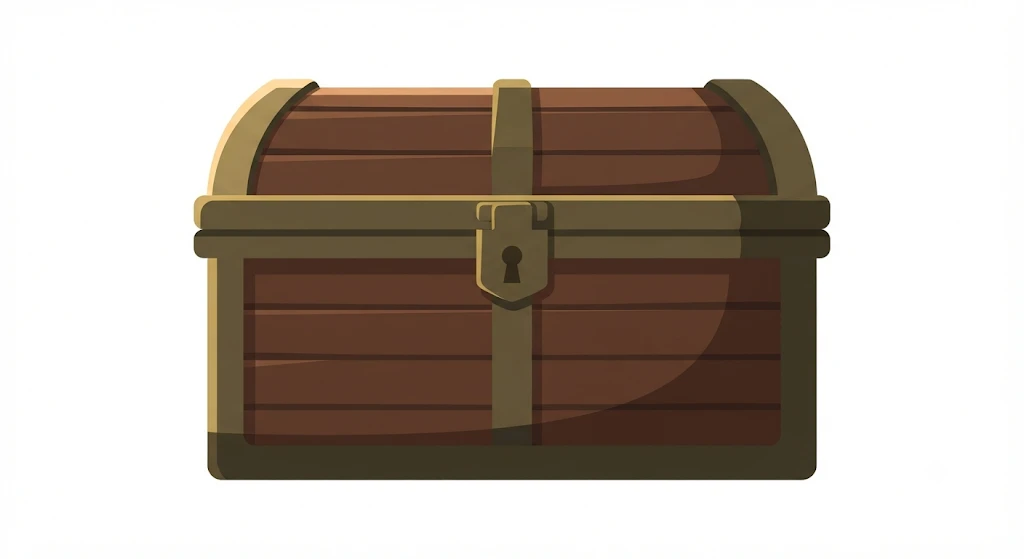
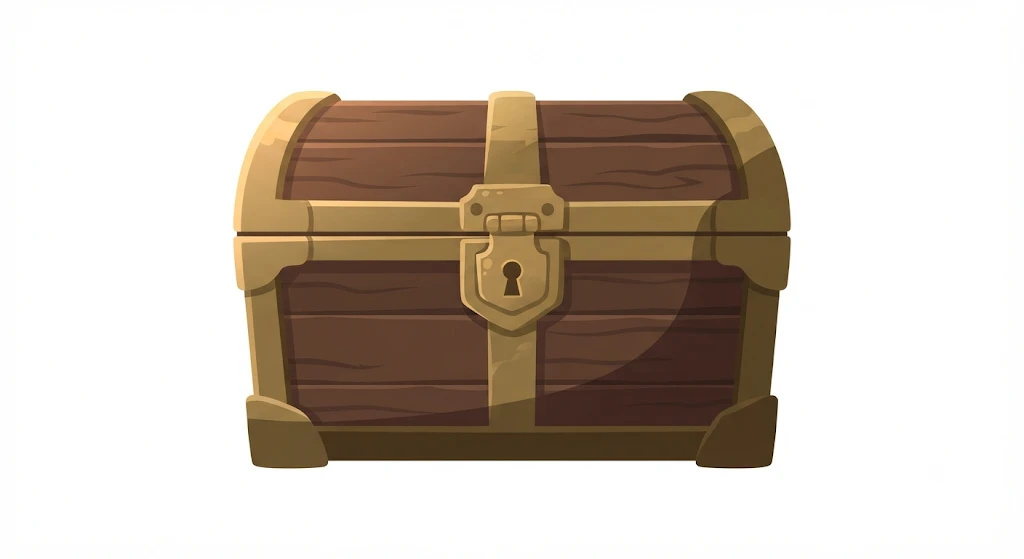
Gương cho Tia Sét, và hòm bản đẹp hơn
Gương bẻ tia 90 độ, HAI hướng đặt (chéo lên / chéo xuống) — một hướng thì
nó là cái xoay chứ không phải gương. Khác ngạnh chẻ ở chỗ gương KHÔNG
cháy: nó là hình học, không phải tài nguyên. Tia bẻ được nhiều lần liên
tiếp, nên hai gương đặt đối nhau thành đường ống dẫn tia.

Gương ép sửa luôn một chỗ sai âm thầm: ngạnh chẻ trước đây chẻ theo HƯỚNG
PHÍM BẤM, giờ chẻ theo hướng tia ĐANG CHẠY. Không có gương thì hai thứ đó
luôn trùng nhau nên lỗi không lộ ra.

19/20 màn Tia Sét có gương, bẫy lên tới 16.
Hòm thay bằng bản anh gửi sau, đai đồng và vân gỗ rõ hơn.
80/80 màn giải được.

Changed region(s): [[0.1875, 0.1216, 0.8125, 0.8819]]

diff --git a/man.js b/man.js
@@ -48,47 +48,47 @@ export const MAN = {
     { o: ["########","#o..#..#","##@..o.#","#X.##o.#","##..#o.#","########"] },
   ],
   xoay: [
-    { o: ["......","......","......","......","......","@....X"] },   // màn dạy luật, vẽ tay
-    { o: [".......",".v.o...","..@#..h",".#.vo..","X..v.h.","..#....","......."] },   // 5 nước · 1 bẫy
-    { o: [".v.#..",".X.h.#","@....v","#...o.",".v....","..h.o."] },   // 5 nước · 1 bẫy
-    { o: ["...X.#",".....#","o.h..#","...o.v","vv....","...h.@"] },   // 9 nước · 1 bẫy
-    { o: ["......v",".o.h...",".#...o.",".h.....","X.v#..#","...v..@","......."] },   // 9 nước · 1 bẫy
-    { o: [".h..voh",".....#@","..#....","X......",".......","......#","o....vv"] },   // 9 nước · 1 bẫy
-    { o: [".vv.Xo","@..#h.","......",".v..#.","......","h.o.#."] },   // 10 nước · 1 bẫy
-    { o: [".vX....","..@....",".v..o#.",".......","....vo.",".....#h","..#...h"] },   // 12 nước · 1 bẫy
-    { o: [".....X.","......#",".......",".@..h..","vv.o...","..#.v..","h#...o."] },   // 12 nước · 1 bẫy
-    { o: ["....o.X",".....v.",".@v.#..","....#..","......o",".......","v..#h.h"] },   // 14 nước · 1 bẫy
-    { o: ["...v...","....#.#",".o....v","...o...","....h..","......v","#X.@..h"] },   // 17 nước · 1 bẫy
-    { o: ["v.....","X..##.","o..#hh","o@...v","......","....v."] },   // 17 nước · 1 bẫy
-    { o: ["...#...","....ov.","..o....","#......","...#..X","v.@.v..","....h.h"] },   // 20 nước · 1 bẫy
-    { o: ["@.v....","....h..","..h....",".....o.","......#",".#....X",".v.#vo."] },   // 20 nước · 1 bẫy
-    { o: [".#h@..",".....X","vh#...","..v...","......",".voo#."] },   // 11 nước · 2 bẫy
-    { o: ["h.....","......","X....v","#v.h.o",".v#...",".#.@.o"] },   // 12 nước · 2 bẫy
-    { o: ["...X...","...#.ov","o.h...@",".......",".#.v...","......#","....hv."] },   // 18 nước · 2 bẫy
-    { o: ["..#...","X.vvh.","h.....","o.....","...#..",".ov#@."] },   // 19 nước · 2 bẫy
-    { o: [".X....","...vh#","h.....",".v#..o",".o.@.v","...#.."] },   // 15 nước · 3 bẫy
-    { o: [".@..h.","..v...","...v.o",".#...X","v#.#.h",".o...."] },   // 16 nước · 3 bẫy
+    { o: ["......","......","......","......","......","@....X"] },
+    { o: [".......",".v.o...","..@#..h",".#.vo..","X..v.h.","..#....","......."] },
+    { o: [".v.#..",".X.h.#","@....v","#...o.",".v....","..h.o."] },
+    { o: ["...X.#",".....#","o.h..#","...o.v","vv....","...h.@"] },
+    { o: ["......v",".o.h...",".#...o.",".h.....","X.v#..#","...v..@","......."] },
+    { o: [".h..voh",".....#@","..#....","X......",".......","......#","o....vv"] },
+    { o: [".vv.Xo","@..#h.","......",".v..#.","......","h.o.#."] },
+    { o: [".vX....","..@....",".v..o#.",".......","....vo.",".....#h","..#...h"] },
+    { o: [".....X.","......#",".......",".@..h..","vv.o...","..#.v..","h#...o."] },
+    { o: ["....o.X",".....v.",".@v.#..","....#..","......o",".......","v..#h.h"] },
+    { o: ["...v...","....#.#",".o....v","...o...","....h..","......v","#X.@..h"] },
+    { o: ["v.....","X..##.","o..#hh","o@...v","......","....v."] },
+    { o: ["...#...","....ov.","..o....","#......","...#..X","v.@.v..","....h.h"] },
+    { o: ["@.v....","....h..","..h....",".....o.","......#",".#....X",".v.#vo."] },
+    { o: [".#h@..",".....X","vh#...","..v...","......",".voo#."] },
+    { o: ["h.....","......","X....v","#v.h.o",".v#...",".#.@.o"] },
+    { o: ["...X...","...#.ov","o.h...@",".......",".#.v...","......#","....hv."] },
+    { o: ["..#...","X.vvh.","h.....","o.....","...#..",".ov#@."] },
+    { o: [".X....","...vh#","h.....",".v#..o",".o.@.v","...#.."] },
+    { o: [".@..h.","..v...","...v.o",".#...X","v#.#.h",".o...."] },
   ],
   tachDoi: [
-    { o: ["#######","#@...X#","#######"] },
-    { o: ["########","#.Y..X##","#.#.#@.#","#XYX.Y.#","########"] },
-    { o: ["#######","#X.##@#","#X.#X.#","#.YY.Y#","#.....#","#######"] },
-    { o: ["#######","#.#YY.#","#XX@.##","#X#.Y.#","#######"] },
-    { o: ["########","#..YX#.#","##XY.@X#","#Y...#.#","########"] },
-    { o: ["########","#Y.YX#.#","#..#X.##","#.Y@..X#","########"] },
-    { o: ["########","##XX...#","#YY.#Y@#","#.X...##","########"] },
-    { o: ["########","#.X...@#","#.#Y.YY#","#X#X#..#","########"] },
-    { o: ["#######","#...@.#","#YYX.##","#.X..Y#","#..##X#","#######"] },
-    { o: ["#######","#.YY.X#","#..X.@#","#.#.#X#","#.Y#..#","#######"] },
-    { o: ["#######","#X....#","#.X#YX#","##..@.#","#.YY#.#","#######"] },
-    { o: ["#######","#Y#.YX#","#..#Y##","#.@X.X#","#######"] },
-    { o: ["#######","#.#@YX#","#.Y.X##","#.X.Y##","#######"] },
-    { o: ["#######","#Y#XY.#","#.#XX##","#@Y...#","#######"] },
-    { o: ["#######","##X...#","#XYY#X#","#@..Y##","#######"] },
-    { o: ["#######","#X#...#","#Y.@Y.#","##YX..#","##.X..#","#######"] },
-    { o: ["#######","##.YY.#","#Y##.X#","#.@X..#","#....X#","#######"] },
-    { o: ["########","#.YX..@#","#YX##..#","##X.Y..#","########"] },
-    { o: ["#######","##.X..#","##Y..X#","#Y@#Y.#","#.X...#","#######"] },
-    { o: ["########","#.X.##Y#","#..X@.Y#","##..XY.#","########"] },
+    { o: ["#######","#@...X#","#######"] },   // màn dạy luật, vẽ tay
+    { o: ["#######","##XYG##","#G.B@B#","#XXY.##","#######"] },   // 7 nước · 1 bẫy
+    { o: ["#######","#.#BX##","#G..YX#","##XYB.#","#G...@#","#######"] },   // 11 nước · 1 bẫy
+    { o: ["#######","#X#X#.#","#..G#@#","#Y..B.#","#X.GYB#","#######"] },   // 13 nước · 1 bẫy
+    { o: ["########","#X.@YBG#","##.BXY.#","#..##XG#","########"] },   // 8 nước · 2 bẫy
+    { o: ["########","#.GB##.#","#XY#GBX#","#X..@Y.#","########"] },   // 10 nước · 2 bẫy
+    { o: ["#######","#.@Y.G#","#G.#XB#","#.B.X.#","##XY.##","#######"] },   // 11 nước · 2 bẫy
+    { o: ["########","#.G.BXB#","#@#..Y##","#G#XYX.#","########"] },   // 13 nước · 2 bẫy
+    { o: ["#######","##G#XB#","#XG#.B#","#XYY.@#","#######"] },   // 8 nước · 3 bẫy
+    { o: ["#######","#.B.#.#","#@..X.#","#X#GY.#","#BXYG##","#######"] },   // 10 nước · 3 bẫy
+    { o: ["########","#XB@Y.G#","##.GX#.#","##XB.Y.#","########"] },   // 13 nước · 3 bẫy
+    { o: ["#######","#.#G#X#","#XYGYX#","#.#B..#","#..B@.#","#######"] },   // 8 nước · 4 bẫy
+    { o: ["#######","#...B.#","##YYGX#","#.GX.B#","#X@#.##","#######"] },   // 12 nước · 4 bẫy
+    { o: ["#######","#.#B#B#","#.@Y.X#","#Y#G..#","#XX..G#","#######"] },   // 17 nước · 4 bẫy
+    { o: ["#######","#.@G.X#","#.YB.X#","##G.#.#","#BYX#.#","#######"] },   // 11 nước · 5 bẫy
+    { o: ["#######","#BYG###","#YXX.@#","#XG#B.#","#######"] },   // 9 nước · 6 bẫy
+    { o: ["#######","###..@#","#..G.B#","#X#G.Y#","#.XXYB#","#######"] },   // 12 nước · 6 bẫy
+    { o: ["########","#.#GB.B#","#YGYXX.#","#.@X#.##","########"] },   // 9 nước · 8 bẫy
+    { o: ["########","#.#GY@B#","##.XGYB#","#.X..X##","########"] },   // 9 nước · 9 bẫy
+    { o: ["#######","#.B@B.#","#.X#.Y#","##.YXG#","#X..G##","#######"] },   // 19 nước · 16 bẫy
   ],
 };

diff --git a/game/tach-doi.js b/game/tach-doi.js
@@ -1,6 +1,20 @@
 // TIA SÉT — một phím điều khiển mọi tia. Chạm ngạnh chẻ là tách làm đôi.
 // Phủ hết các chấu thu thì xong. Thế giới: điện trắng xanh trên nền đêm.
-import { laTuong, tamO, oTron, kep, lerp, muot, nhieu, toiGoc } from '../nen.js';
+import { laTuong, tamO, oTron, kep, lerp, muot, nhieu, toiGoc, anh } from '../nen.js';
+
+// Gương bẻ tia 90 độ. Hai hướng đặt, vì một hướng thì nó là cái xoay chứ không
+// phải gương. 'G' là mặt chéo lên ( / ), 'B' là mặt chéo xuống ( \ ).
+// Gương KHÔNG cháy như ngạnh chẻ — nó là hình học, không phải tài nguyên.
+const GUONG = {
+  G: { phai: 'len', trai: 'xuong', len: 'phai', xuong: 'trai' },
+  B: { phai: 'xuong', trai: 'len', len: 'trai', xuong: 'phai' },
+};
+const TRANH_GUONG = 'assets/sprite/guong.svg';
+const doGuong = (man) => {
+  const m = new Map();
+  for (const c of ['G', 'B']) for (const [x, y] of man.lay(c)) m.set(`${x},${y}`, c);
+  return m;
+};
 import { MAN } from '../man.js';
 
 const NEN = '#05070c', O = '#0e1520', TUONG = '#1a2331';
@@ -19,33 +33,49 @@ function batDau(man) {
 }
 
 function buoc(man, tt, huong) {
-  const [dx, dy] = BUOC[huong];
-  let tia = new Set();
+  const g = doGuong(man);
+
+  // 1. mỗi tia đi một bước, gặp gương thì bẻ rồi đi tiếp — bẻ được nhiều lần
+  const sau = new Map();               // "x,y" -> hướng tia đang chạy
   for (const k of tt.tia) {
-    const [x, y] = k.split(',').map(Number);
-    tia.add(laTuong(man, x + dx, y + dy) ? k : `${x + dx},${y + dy}`);
+    let [x, y] = k.split(',').map(Number);
+    let h = huong;
+    const [dx, dy] = BUOC[h];
+    if (laTuong(man, x + dx, y + dy)) { sau.set(k, h); continue; }
+    x += dx; y += dy;
+    for (let n = 0; n < 8; n++) {
+      const loai = g.get(`${x},${y}`);
+      if (!loai) break;
+      h = GUONG[loai][h];
+      const [ax, ay] = BUOC[h];
+      if (laTuong(man, x + ax, y + ay)) break;   // bẻ xong đụng tường thì nằm lại gương
+      x += ax; y += ay;
+    }
+    sau.set(`${x},${y}`, h);           // hai tia về cùng ô thì nhập làm một
   }
 
+  // 2. chẻ ở ngạnh, theo hướng tia ĐANG chạy chứ không theo phím bấm
   const nganh = new Set(tt.nganh);
   const noAt = [];
-  for (const k of [...tia]) {
+  for (const [k, h] of [...sau]) {
     if (!nganh.has(k)) continue;
     const [x, y] = k.split(',').map(Number);
-    const ra = vuongGoc(huong)
+    const ra = vuongGoc(h)
       .map(([ax, ay]) => [x + ax, y + ay])
       .filter(([ax, ay]) => !laTuong(man, ax, ay));
     if (!ra.length) continue;          // bí cả hai bên thì không chẻ
-    tia.delete(k);
+    sau.delete(k);
     nganh.delete(k);                   // ngạnh cháy hết sau một lần
     noAt.push(k);
-    for (const [ax, ay] of ra) tia.add(`${ax},${ay}`);
+    for (const [ax, ay] of ra) sau.set(`${ax},${ay}`, h);
   }
 
-  if ([...tia].join('|') === [...tt.tia].join('|') && !noAt.length) return null;
+  const tia = [...sau.keys()];
+  if (tia.slice().sort().join('|') === [...tt.tia].slice().sort().join('|') && !noAt.length) return null;
 
   const chau = man.lay('X').map((p) => p.join(','));
-  const thang = tia.size === chau.length && chau.every((c) => tia.has(c));
-  return { tt: { tia: [...tia], nganh, luc: performance.now(), noAt }, thang };
+  const thang = tia.length === chau.length && chau.every((c) => sau.has(c));
+  return { tt: { tia, nganh, luc: performance.now(), noAt }, thang };
 }
 
 const toa = (k) => k.split(',').map(Number);
@@ -114,6 +144,29 @@ function ve(ctx, man, tt, g, phu) {
     ctx.lineTo(px + g.o * .24, py - g.o * .26);
     ctx.stroke();
   }
+
+  // gương
+  for (const [c, lat] of [['G', 1], ['B', -1]])
+    for (const [x, y] of man.lay(c)) {
+      const [px, py] = tamO(g, x, y);
+      const t = anh(TRANH_GUONG);
+      if (t) {
+        const k = g.o * .92;
+        ctx.save();
+        ctx.translate(px, py);
+        ctx.scale(lat, 1);
+        ctx.drawImage(t, -k / 2, -k / 2, k, k);
+        ctx.restore();
+      } else {
+        ctx.strokeStyle = '#cfe9f7';
+        ctx.lineWidth = Math.max(2, g.o * .12);
+        ctx.lineCap = 'round';
+        ctx.beginPath();
+        ctx.moveTo(px - lat * g.o * .3, py + g.o * .3);
+        ctx.lineTo(px + lat * g.o * .3, py - g.o * .3);
+        ctx.stroke();
+      }
+    }
 
   // chấu thu
   const dangCo = new Set(tt.tia);
@@ -185,7 +238,7 @@ function ve(ctx, man, tt, g, phu) {
 
 export default {
   ten: 'Tia Sét',
-  goi: 'Một phím điều khiển mọi tia cùng lúc. Chạm ngạnh chữ Y là tách làm đôi. Phủ kín các chấu thu.',
+  goi: 'Một phím điều khiển mọi tia cùng lúc. Chạm ngạnh chữ Y là tách làm đôi, ngạnh cháy hết sau một lần. Gương bẻ tia 90 độ và dùng được mãi. Phủ kín các chấu thu.',
   tyLe: .66,
   mau: { chinh: DIEN, nen: NEN, phu: CHAU },
   batDau, buoc, ve,
